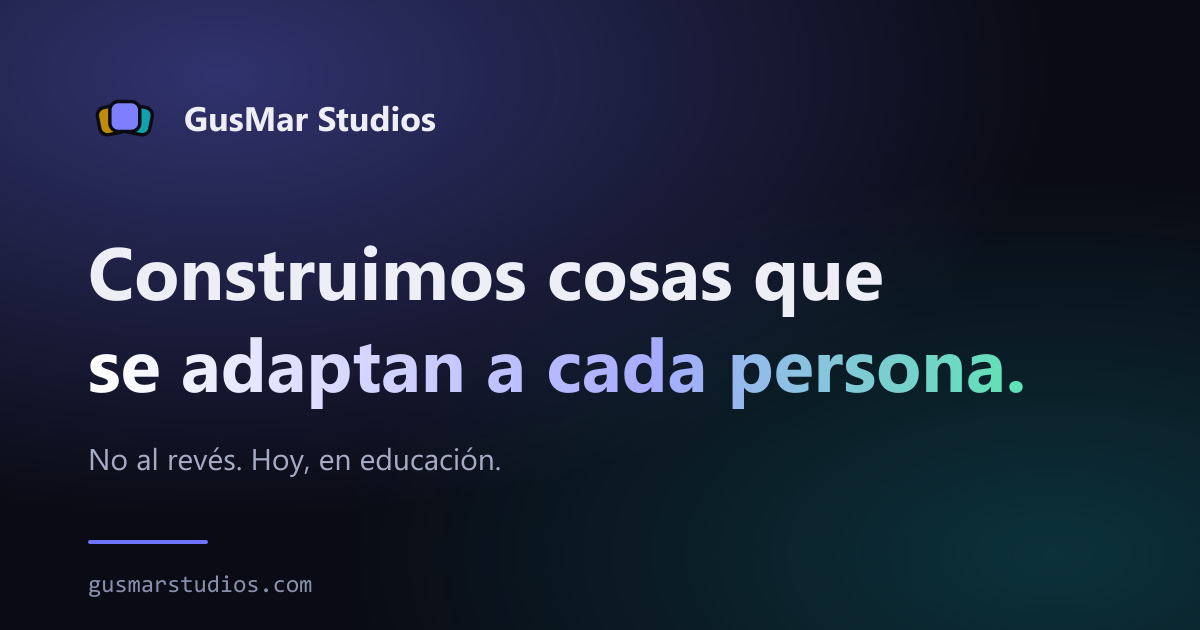
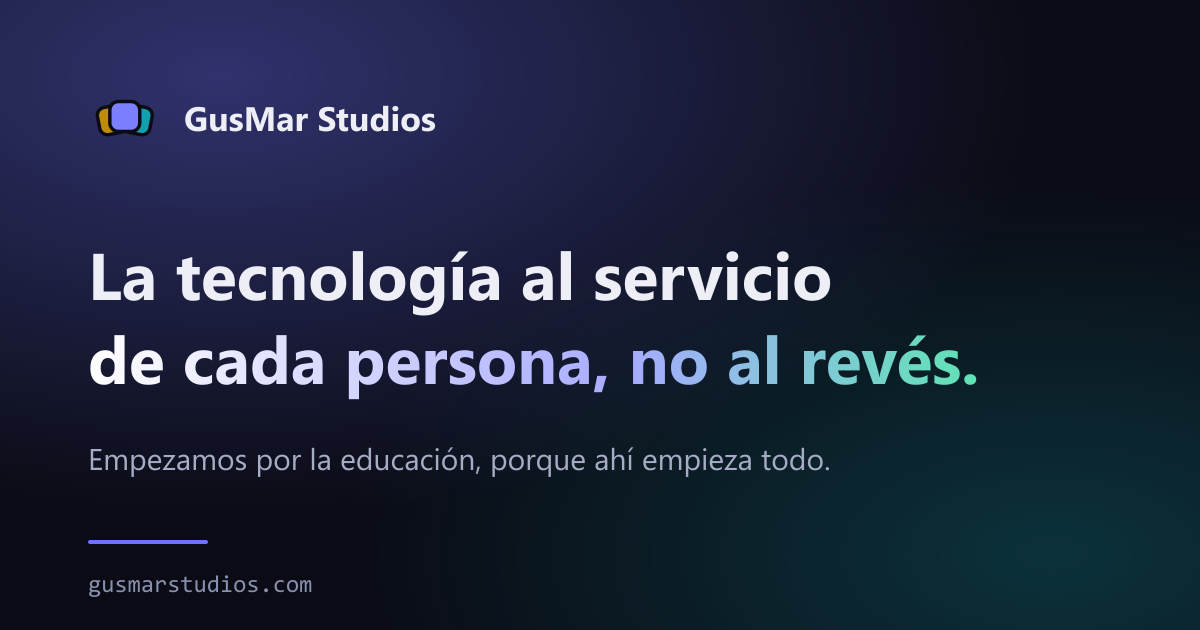
Sitio: el titular pasa a "La tecnologia al servicio de cada persona"
Su propuesta, conservando el giro final: sin el "no al reves" queda un lema
que firmaria cualquiera. La frase tambien estaba DIBUJADA dentro de og.png,
asi que se rehizo la tarjeta del enlace; si no, el chat y la pagina dicen
cosas distintas.

Y queda anotada en el README la trampa que nos costo la vista previa de
WhatsApp: compartir un enlace durante la ventana de reconstruccion de Pages
envenena el cache de Meta por dias.

Changed region(s): [[0.0617, 0.5127, 0.8633, 0.6635], [0.0617, 0.3921, 0.74, 0.5127], [0.0617, 0.7238, 0.7092, 0.754]]

diff --git a/index.html b/index.html
@@ -21,7 +21,7 @@
 <meta property="og:image:type" content="image/png">
 <meta property="og:image:width" content="1200">
 <meta property="og:image:height" content="630">
-<meta property="og:image:alt" content="GusMar Studios — Construimos cosas que se adaptan a cada persona.">
+<meta property="og:image:alt" content="GusMar Studios — La tecnología al servicio de cada persona, no al revés.">
 <meta name="twitter:card" content="summary_large_image">
 <meta name="twitter:title" content="GusMar Studios — Tecnología que se adapta a cada persona">
 <meta name="twitter:description" content="Cambiamos el mundo desde la educación: tecnología que se adapta a cada persona para que nadie quede atrás. Empezamos por los niños, y el enfoque no se agota ahí.">
@@ -664,7 +664,10 @@ a.estado:hover { color: #fff; }
             <span class="globo" aria-hidden="true">🌎</span>
             <span class="ciudad">Santiago, Chile · </span>Cambiando el mundo
           </span>
-          <h1>Construimos cosas que <span class="degradado">se adaptan a cada persona</span>, no al revés.</h1>
+          <!-- El giro final "no al reves" es lo que hace la frase: sin el queda un lema
+               que firmaria cualquiera. Y es "cada persona", no "las personas": el plural
+               vuelve al promedio que el parrafo de abajo justo esta negando. -->
+          <h1>La tecnología al servicio de <span class="degradado">cada persona</span>, no al revés.</h1>
           <p class="entrada">
             Casi todo se diseña para un promedio que no existe: el mismo contenido para
             treinta niños, el mismo criterio para cualquiera. Nosotros hacemos lo contrario.

diff --git a/README.md b/README.md
@@ -170,6 +170,21 @@ regalo. **Lleva el icono de la app DENTRO**, asi que no se actualiza sola cuando
 cambia: hay que recomponerla. En `/matibu/og.png` el icono va en 300x300 en (800,165) con
 esquinas de radio 60.
 
+Ademas de `og:image` van `og:image:secure_url` y `og:image:type`, que algunos scrapers
+viejos de Meta prefieren. La URL es **absoluta y sin redirecciones**.
+
+🚨 **No compartir un enlace recien publicado.** Tras un push, GitHub Pages tarda entre 30
+segundos y 5 minutos en reconstruir, y en esa ventana los archivos pueden dar **404 con el
+HTML nuevo ya servido**. Si el robot de Meta pasa justo ahi, guarda "esta URL no tiene
+imagen" y **ese cache dura dias aunque la imagen ya funcione**: el enlace sale en el chat
+sin foto, como de sitio desconocido. Paso exactamente eso con `/matibu/`.
+
+- Antes de pegar un enlace en un chat, comprobar que la imagen responde 200:
+  `curl -sI https://gusmarstudios.com/matibu/og.png`
+- Si el cache ya se envenono, se purga en `developers.facebook.com/tools/debug` con
+  **"Scrape Again"** (es el mismo cache que usa WhatsApp). Para salir del paso, cualquier
+  parametro —`?v=2`— es una URL distinta y la obliga a mirar de nuevo.
+
 ## Los efectos, y por que cada uno
 
 - **Revelado al bajar** (`[data-rise]`): barrido en el evento `scroll`, **NO un
